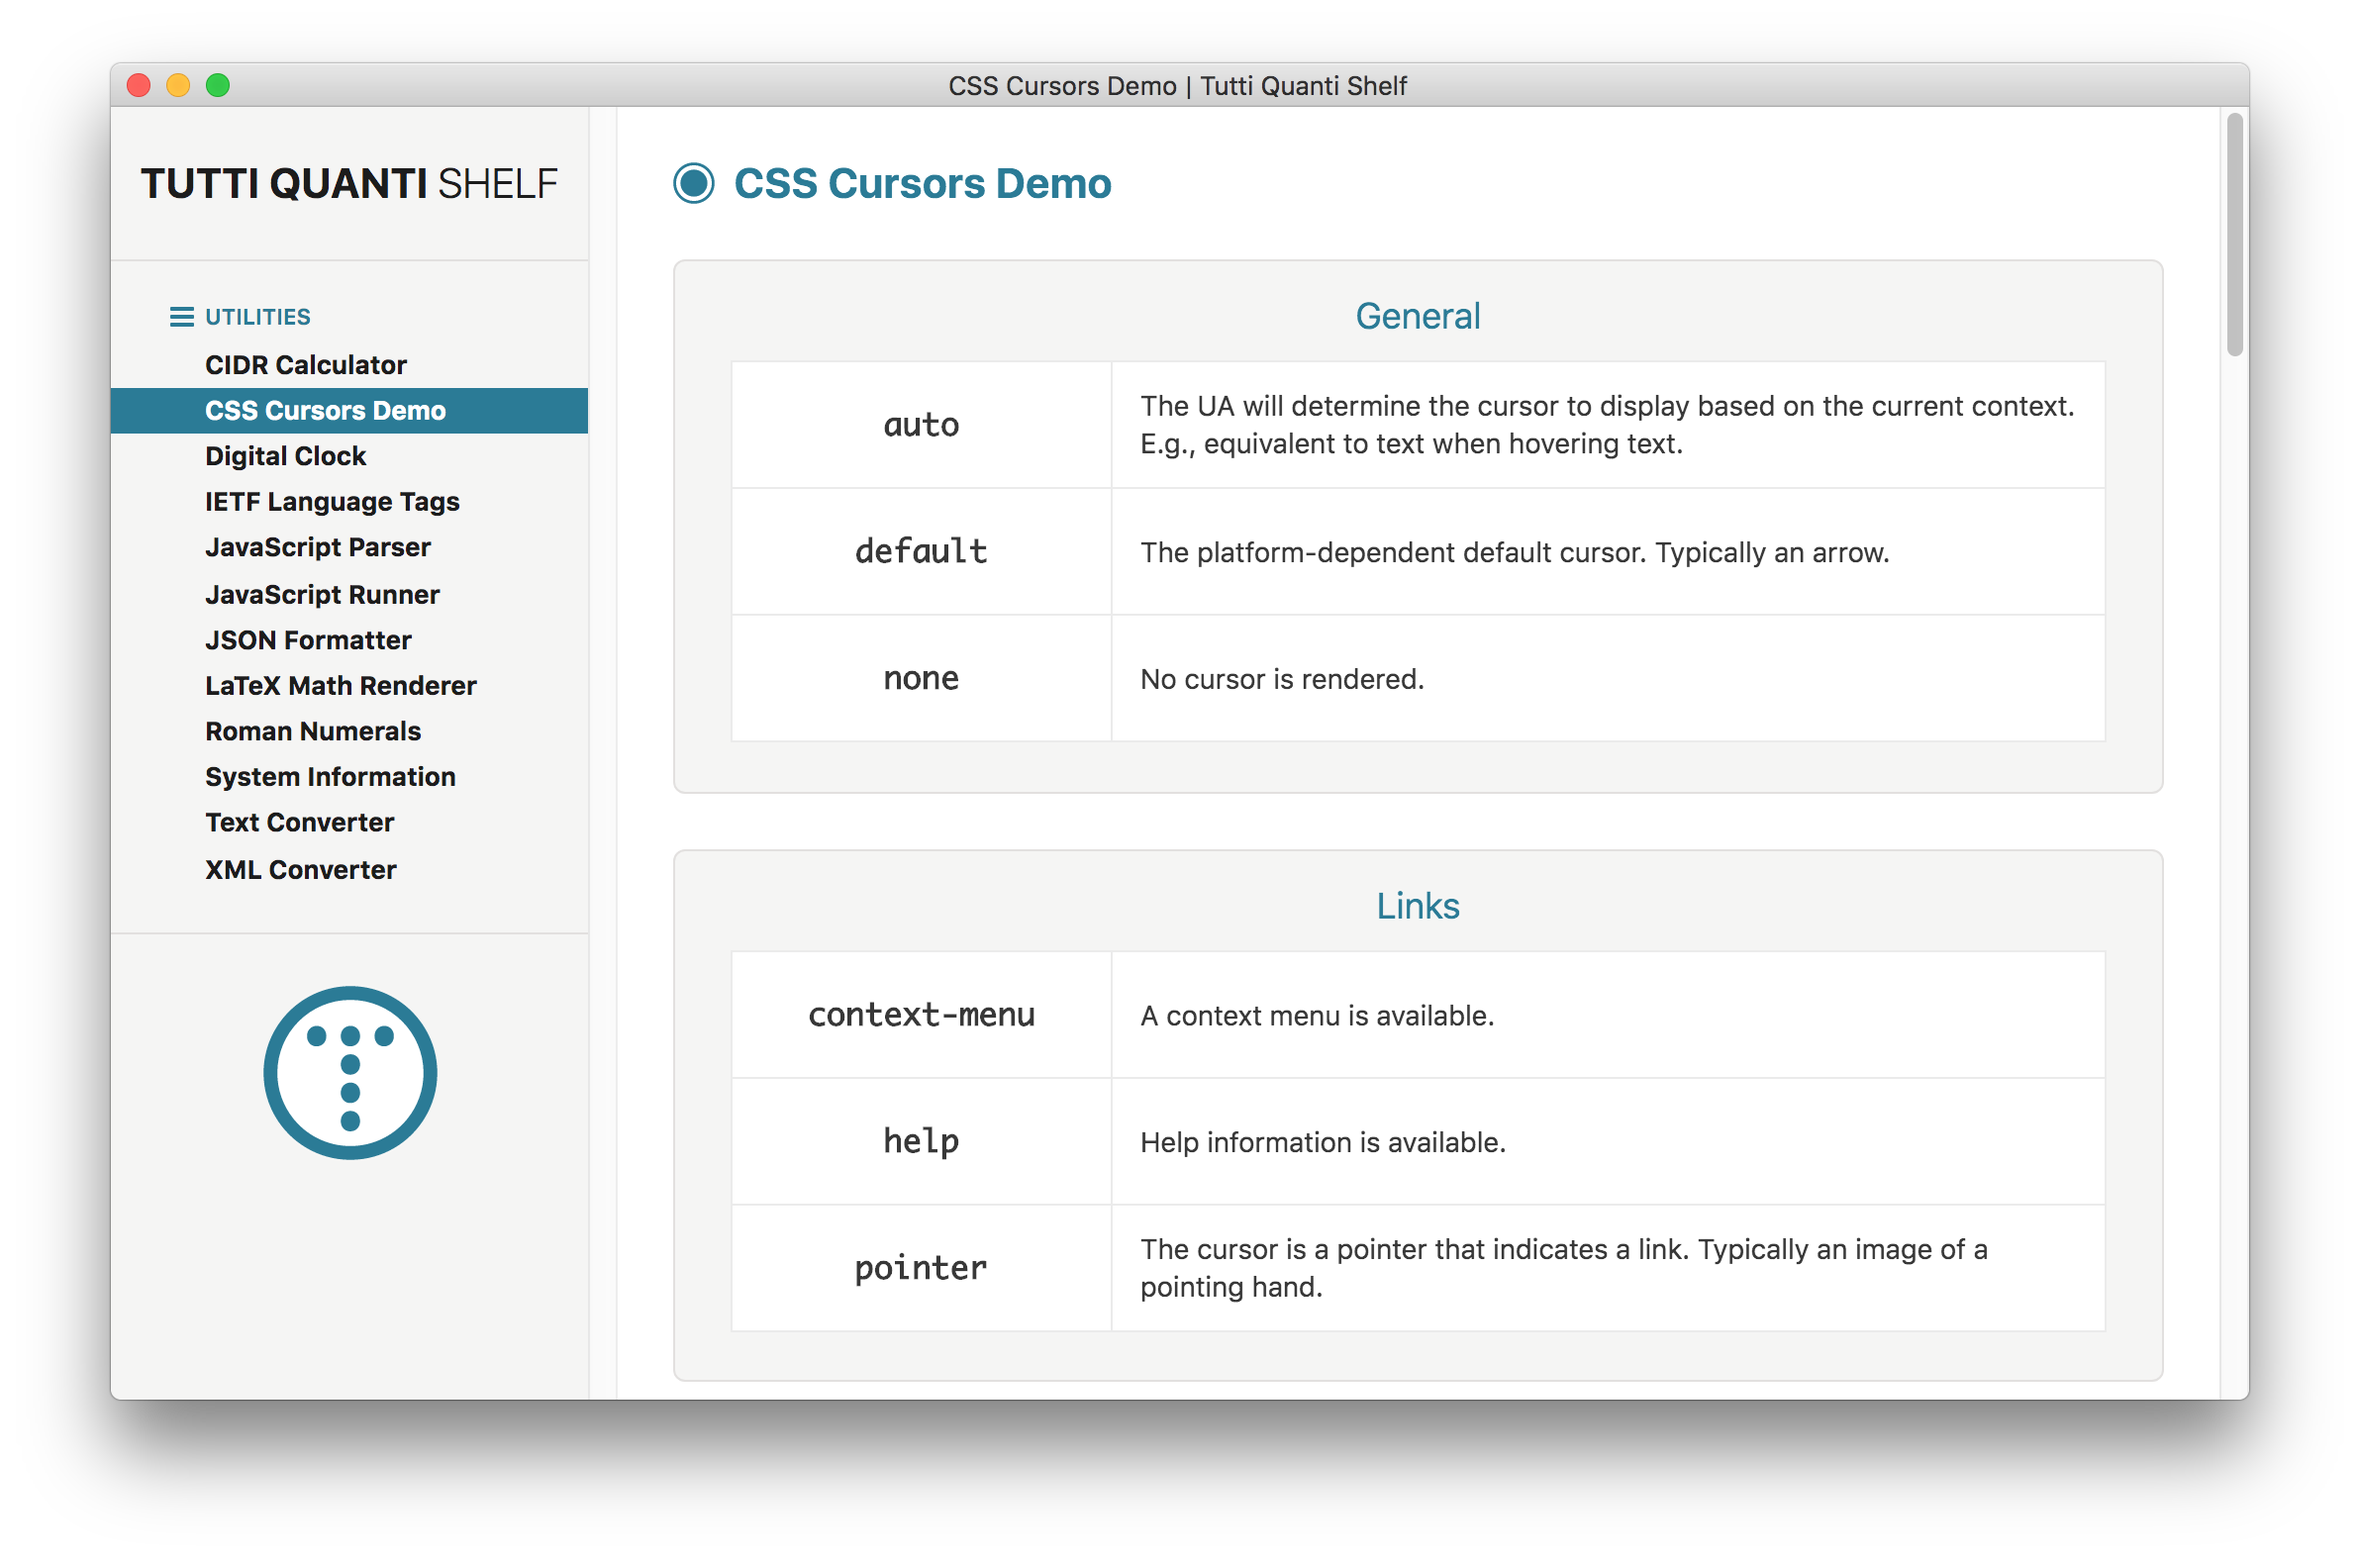
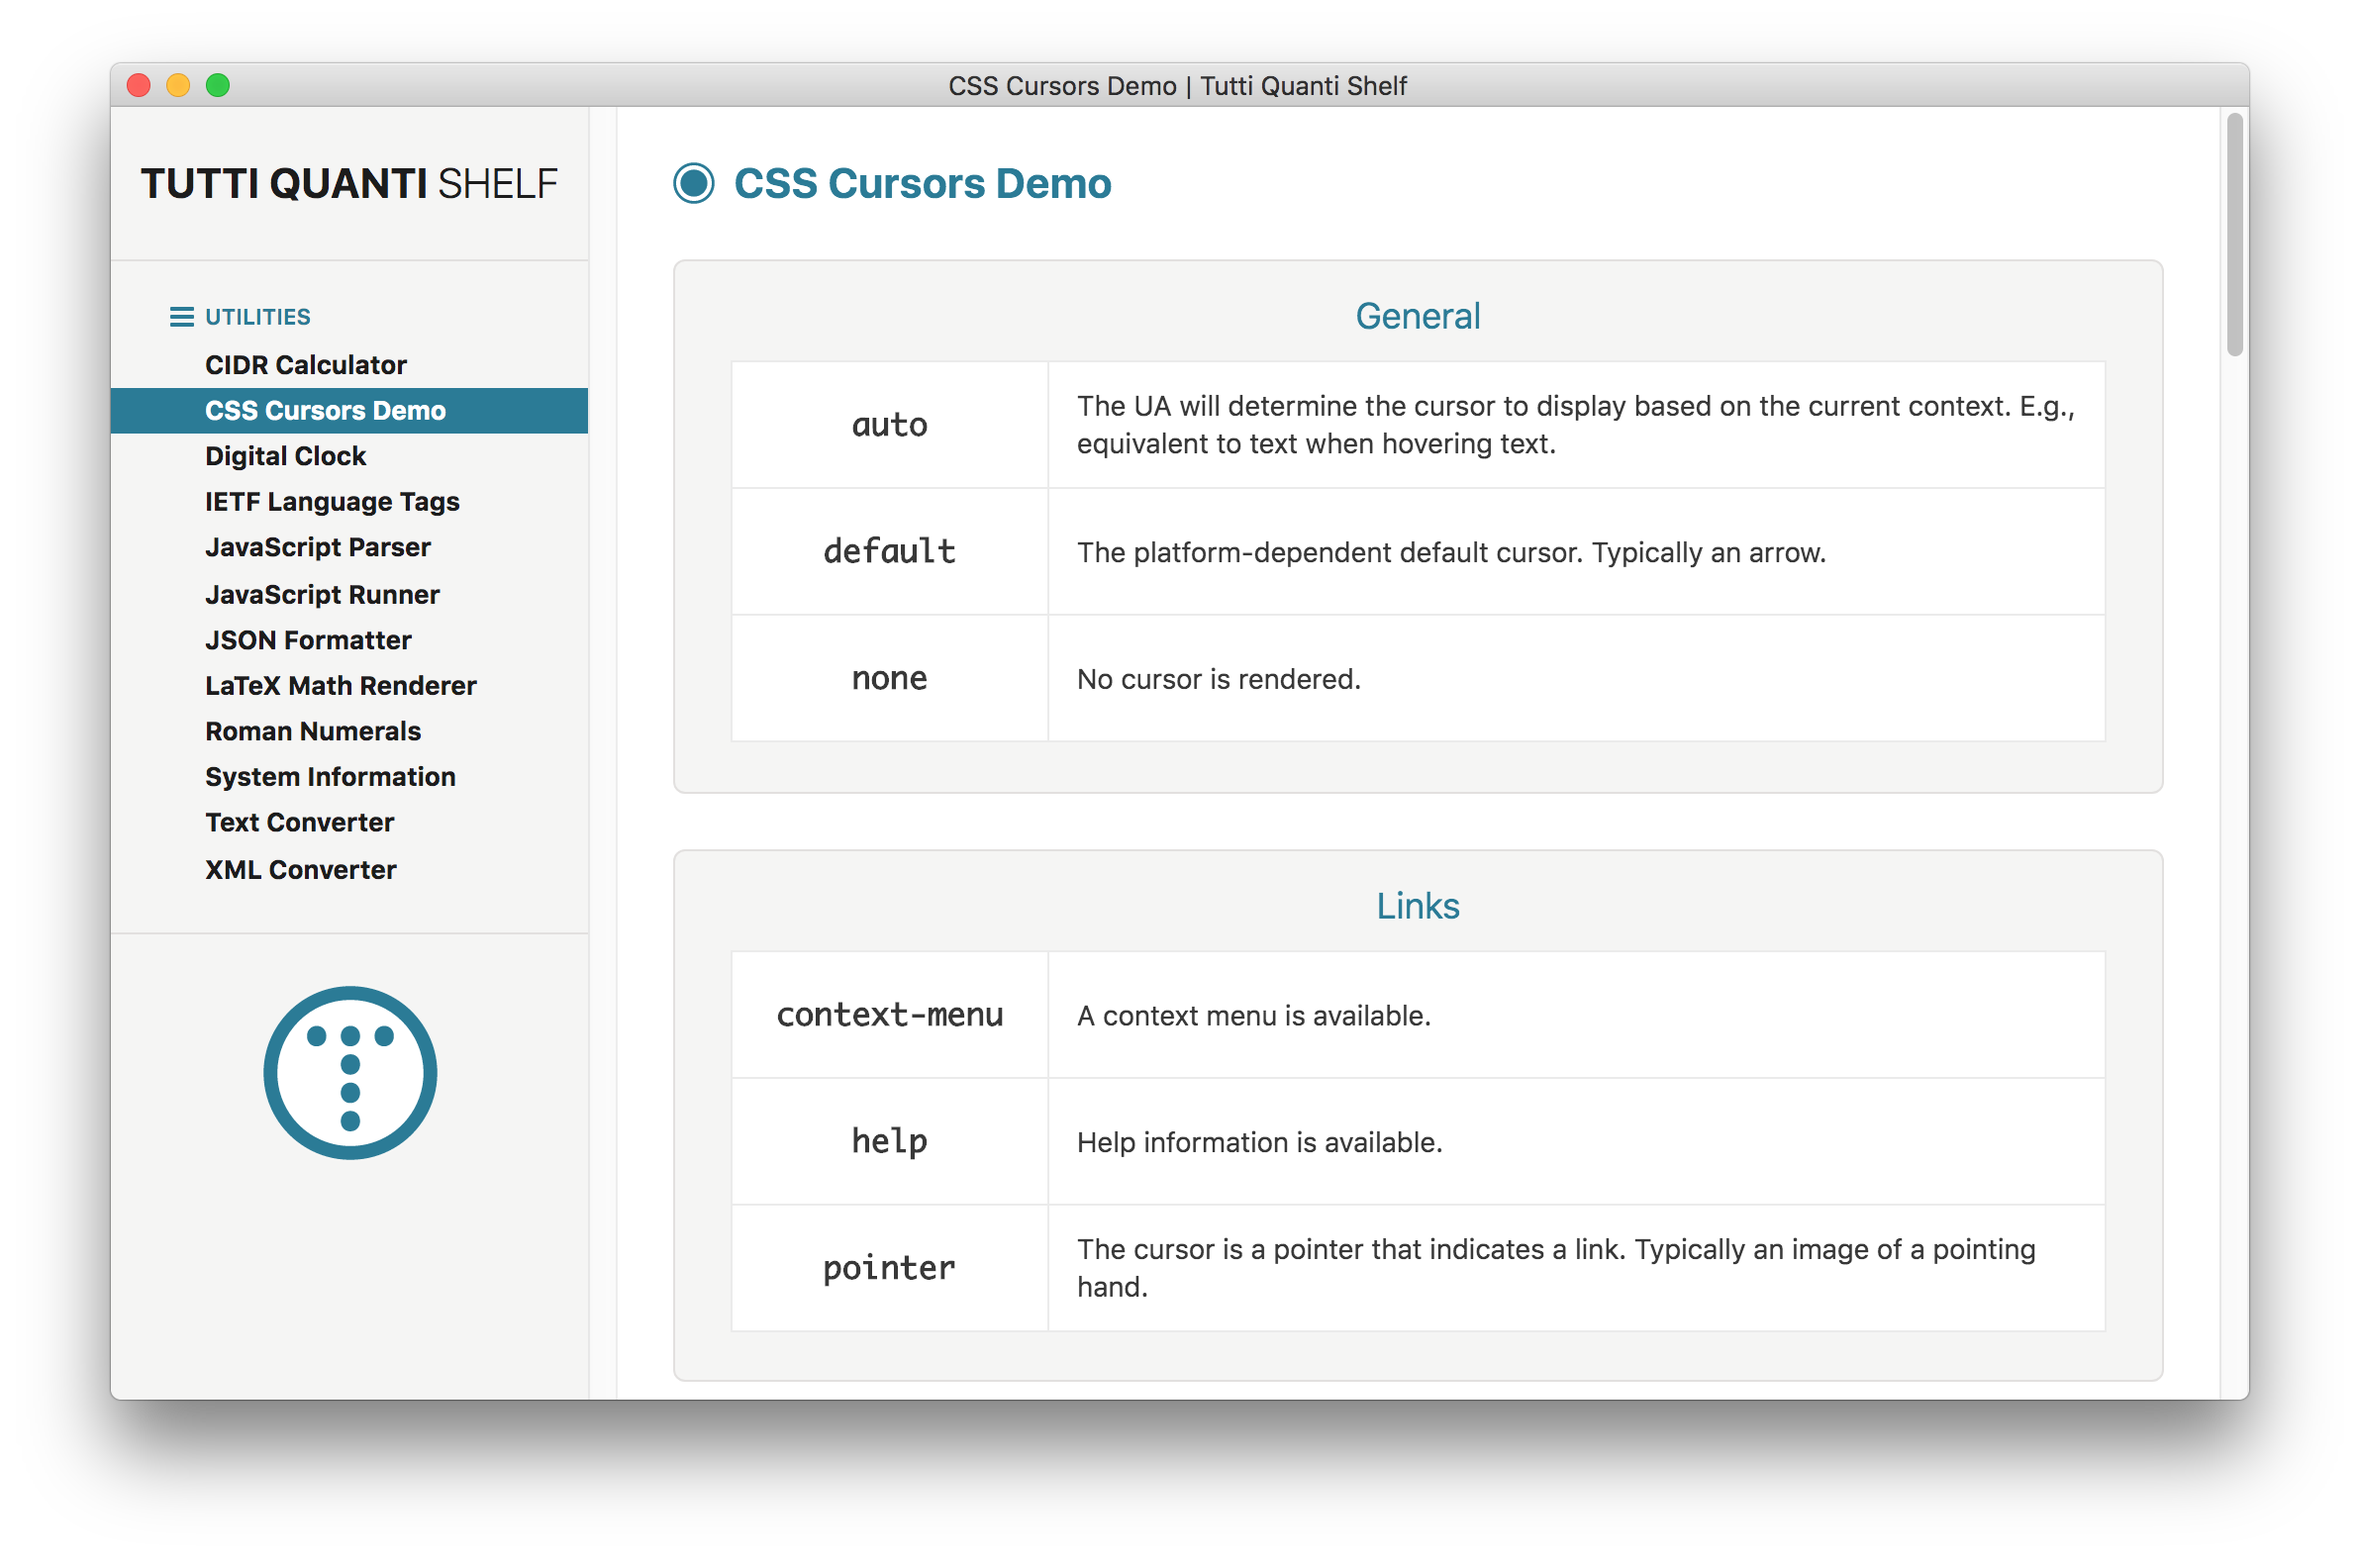
Updated app to version 1.3.8

diff --git a/renderer/units/CSS Cursors Demo/import.css b/renderer/units/CSS Cursors Demo/import.css
@@ -8,7 +8,6 @@
 
 #css-cursors-demo-unit table
 {
-    display: block;
     color: var(--color);
     background-color: white;
     margin-bottom: 0.75em;
@@ -27,7 +26,7 @@
 
 #css-cursors-demo-unit th
 {
-    width: 12em;
+    width: 10em;
     font-family: Monaco, "Noto Mono", monospace;
     font-size: 16px;
     padding: 0.5em 1em;

diff --git a/README.md b/README.md
@@ -2,7 +2,7 @@
 
 **Tutti Quanti Shelf** is a collection of miscellaneous developer-oriented utilities wrapped into one single app, built with [Electron](https://electronjs.org).
 
-This app works on Mac OS X, Linux and Windows operating systems.
+This app works on macOS, Linux and Windows operating systems.
 
 ## Utilities
 
@@ -130,7 +130,7 @@ npm start
 If you don't wish to clone, you can [download the source code](https://github.com/tonton-pixel/tutti-quanti-shelf/archive/master.zip).
 
 Several scripts are also defined in the `package.json` file to build OS-specific bundles of the app, using the simple yet powerful [Electron Packager](https://github.com/electron-userland/electron-packager) Node module.\
-For instance, running the following command will create a `Tutti Quanti Shelf.app` version for Mac OS X:
+For instance, running the following command will create a `Tutti Quanti Shelf.app` version for macOS:
 
 ```bash
 npm run build-darwin
@@ -138,7 +138,7 @@ npm run build-darwin
 
 ## Using
 
-You can [download the latest release](https://github.com/tonton-pixel/tutti-quanti-shelf/releases) for Mac OS X.
+You can [download the latest release](https://github.com/tonton-pixel/tutti-quanti-shelf/releases) for macOS.
 
 ## License
 
